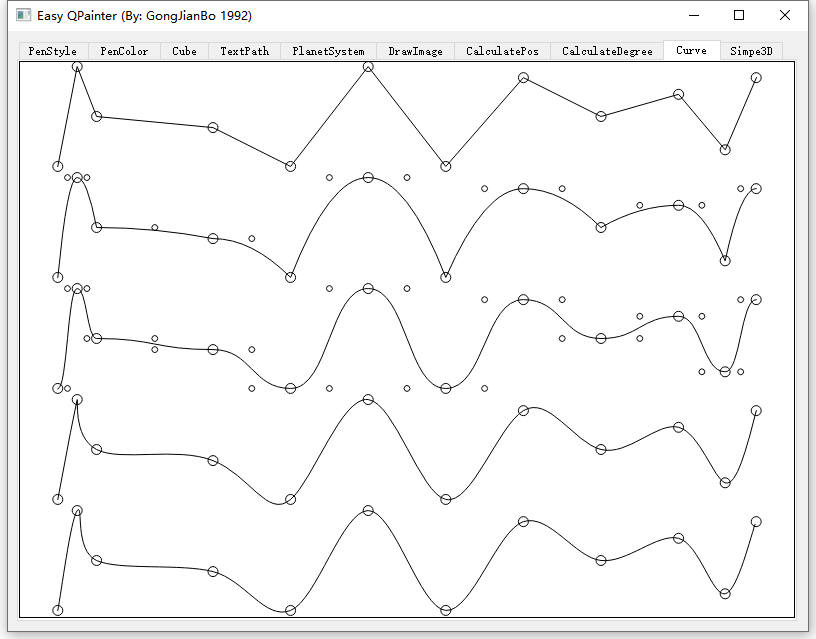
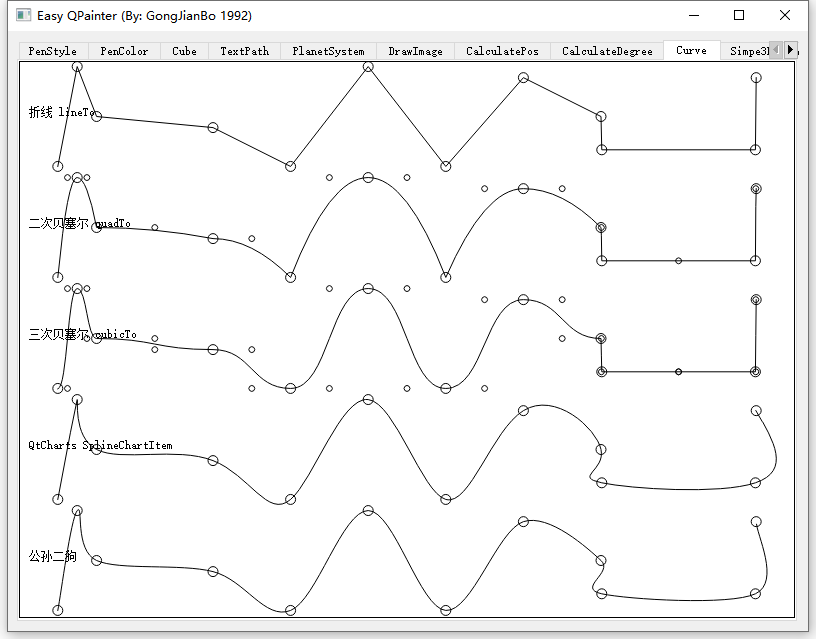
更新img

diff --git a/src/MyCurve.cpp b/src/MyCurve.cpp
@@ -41,8 +41,9 @@ void MyCurve::paintEvent(QPaintEvent *event)
     point_list.push_back(QPointF(item_width*5.5,item_height*0.95));
     point_list.push_back(QPointF(item_width*6.5,item_height*0.15));
     point_list.push_back(QPointF(item_width*7.5,item_height*0.5));
-    point_list.push_back(QPointF(item_width*8.5,item_height*0.3));
-    point_list.push_back(QPointF(item_width*9.1,item_height*0.8));
+    //这里制造一个方形，目测三次贝塞尔地效果更好
+    point_list.push_back(QPointF(item_width*7.51,item_height*0.8));
+    point_list.push_back(QPointF(item_width*9.49,item_height*0.8));
     point_list.push_back(QPointF(item_width*9.5,item_height*0.15));
 
     //1-直线连接

diff --git a/README.md b/README.md
@@ -4,7 +4,7 @@ I named this demo "What is QPainer".（我给这个 Demo 命名为 "何为 QPain
 ###### （QQ 交流群：647637553）
 
 # Environment （开发环境）
-（2020-7-26）Qt5.15.0 + MSVC2019 32bit
+（2021-7-01）Qt5.15.2 + MSVC2019 32/64bit
 ###### （There might be some incompatibility between different QT version header directives, please adjust includes based on your QT SDK version.  版本之间可能有些接口不兼容，或者头文件变动，请自行调整。如我 5.12 放到 5.15 上就需要显式引入 QPianterPath 了。）
 
 # Demo Show （展示）
@@ -25,6 +25,8 @@ I named this demo "What is QPainer".（我给这个 Demo 命名为 "何为 QPain
 
 ![2020-7-19](img/demo_8.png)
 
-![2020-7-26](img/demo_9.png)
+![2021-7-01](img/demo_9.png)
 
 ![2020-7-26](img/demo_10.png)
+
+![2021-7-01](img/demo_11.png)
